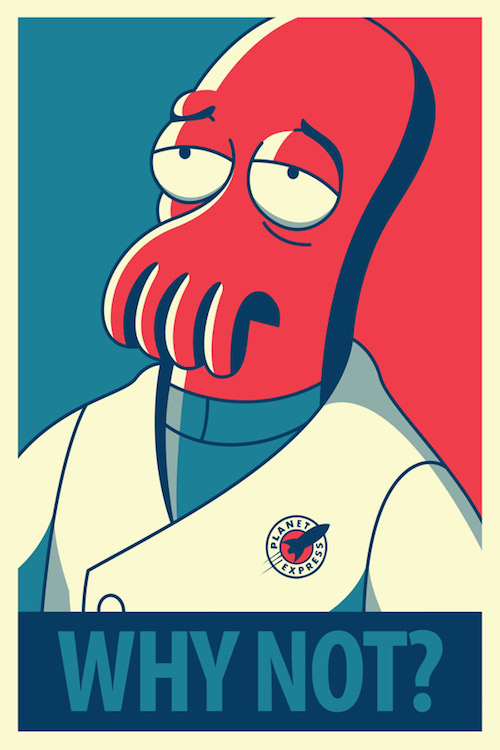
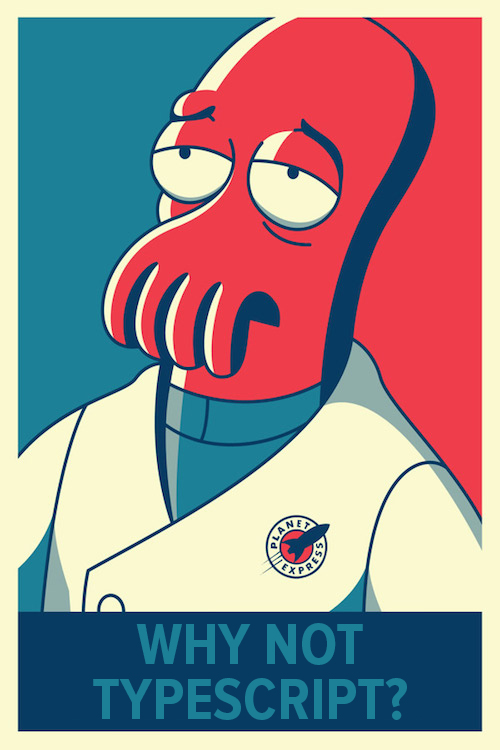
Update slide styles.  (#1)
* minor changes to theme

* style and graphic updates

* Additional tweaks, fix code stepping

Changed region(s): [[0.12, 0.828, 0.9, 0.9813]]

diff --git a/presentation/slides/intro/WhatIsTypescript.js b/presentation/slides/intro/WhatIsTypescript.js
@@ -14,19 +14,19 @@ export default class extends React.Component {
         <Heading size={4}>What is TypeScript?</Heading>
         <ul className="fa-ul">
           <Appear>
-            <li><i className="fa-li fa fa-check-square-o green"/><b>Superset</b> of Javascript which adds type support</li>
+            <li><i className="fa-li fa fa-check-square-o red"/><b>Superset</b> of Javascript which adds type support</li>
           </Appear>
           <Appear>
-            <li><i className="fa-li fa fa-check-square-o green"/>Developed by Anders Hejlsberg at Microsoft</li>
+            <li><i className="fa-li fa fa-check-square-o red"/>Developed by Anders Hejlsberg at Microsoft</li>
           </Appear>
           <Appear>
-            <li><i className="fa-li fa fa-check-square-o green"/>3rd most loved language in StackOverflow 2017 rankings</li>
+            <li><i className="fa-li fa fa-check-square-o red"/>3rd most loved language in StackOverflow 2017 rankings</li>
           </Appear>
           <Appear>
-            <li><i className="fa-li fa fa-check-square-o green"/>Big in Angular community, Angular 2 written in TS</li>
+            <li><i className="fa-li fa fa-check-square-o red"/>Big in Angular community, Angular 2 written in TS</li>
           </Appear>
           <Appear>
-            <li><i className="fa-li fa fa-check-square-o green"/>2.3</li>
+            <li><i className="fa-li fa fa-check-square-o red"/>2.3</li>
           </Appear>
         </ul>
       </div>

diff --git a/presentation/slides/intro/React.js b/presentation/slides/intro/React.js
@@ -13,11 +13,11 @@ export default class extends React.Component {
       <div>
         <Heading size={4}>Benefits in React</Heading>
         <ul className="fa-ul">
-          <Appear><li><i className="fa-li fa fa-check-square-o green"/>JSX autocompletion and validation</li></Appear>
-          <Appear><li><i className="fa-li fa fa-check-square-o green"/>DOM event typing</li></Appear>
-          <Appear><li><i className="fa-li fa fa-check-square-o green"/>Flux action call signature validation</li></Appear>
-          <Appear><li><i className="fa-li fa fa-check-square-o green"/>Redux store autocompletion</li></Appear>
-          <Appear><li><i className="fa-li fa fa-check-square-o green"/>Compile-time prop validation</li></Appear>
+          <Appear><li><i className="fa-li fa fa-check-square-o red"/>JSX autocompletion and validation</li></Appear>
+          <Appear><li><i className="fa-li fa fa-check-square-o red"/>DOM event typing</li></Appear>
+          <Appear><li><i className="fa-li fa fa-check-square-o red"/>Flux action call signature validation</li></Appear>
+          <Appear><li><i className="fa-li fa fa-check-square-o red"/>Redux store autocompletion</li></Appear>
+          <Appear><li><i className="fa-li fa fa-check-square-o red"/>Compile-time prop validation</li></Appear>
         </ul>
       </div>
     );

diff --git a/index.html b/index.html
@@ -8,6 +8,8 @@
   <link href="https://fonts.googleapis.com/css?family=Russo+One:400,700" rel="stylesheet"/>
   <link rel="stylesheet" type="text/css" href="https://cdn.jsdelivr.net/prism/1.3.0/themes/prism-tomorrow.css"/>
   <link rel="stylesheet" type="text/css" href="https://maxcdn.bootstrapcdn.com/font-awesome/4.7.0/css/font-awesome.min.css"/>
+  <script src="https://use.typekit.net/xhb8zqf.js"></script>
+  <script>try{Typekit.load({ async: true });}catch(e){}</script>
   <style>
     pre {
         padding: 15% 0 !important;
@@ -15,8 +17,8 @@
     .spectacle-content{
         min-width: 1200px !important;
     }
-    .green {
-      color: #58C99E;
+    .red {
+      color: #EE2E2A;
     }
     .centered-list li {
       text-align: center;
@@ -24,12 +26,17 @@
     li{
       text-align: left;
       padding-bottom: 15px;
+      color: #506774;
+      font-weight: lighter;
     }
     .courtesy{
       font-size: 12px;
       position: absolute;
       bottom: calc(-50vh + 100%);
       right: calc(-50vh + 30%);
+    }
+    hr{
+        margin-left:0;
     }
   </style>
 </head>

diff --git a/presentation/slides/components/ClassDefinition.js b/presentation/slides/components/ClassDefinition.js
@@ -20,11 +20,11 @@ export default class extends React.Component {
                    ranges={[
                        {loc: [0, 2]},
                        {loc: [3, 13], note: <span>"PropTypes"</span>},
-                       {loc: [5, 7], note: <span>Primatives</span>},
-                       {loc: [7, 8], note: <span>Arrays</span>},
-                       {loc: [8, 9], note: <span>Functions</span>},
-                       {loc: [9, 13], note: <span>Sub-objects</span>},
-                       {loc: [16, 20], note: <span style={{color: "#ff5c57"}}>Supplied parameters do not match any signature of call target</span>}
+                       {loc: [4, 6], note: <span>Primatives</span>},
+                       {loc: [6, 7], note: <span>Arrays</span>},
+                       {loc: [7, 8], note: <span>Functions</span>},
+                       {loc: [8, 12], note: <span>Sub-objects</span>},
+                       {loc: [14, 20], note: <span style={{color: "#ff5c57"}}>Supplied parameters do not match any signature of call target</span>}
                    ]}/>
     );
   }

diff --git a/presentation/slides/Title.js b/presentation/slides/Title.js
@@ -11,13 +11,19 @@ export default class extends React.Component {
   render() {
     return (
       <div>
-        <Typeface font="Russo One">
-          <Text textSize="72px">Static Typing for React?</Text>
-          <br/>
-          <br/>
-          <Text textSize="72px">Why Not Typescript?</Text>
-          <br/>
-          <br/>
+        <Typeface font="'proxima-nova'-serif">
+          <Heading size={6} textAlign="left" textTransform="uppercase">Static Typing for React?</Heading>
+          <Text size={5} textAlign='left' textTransform="uppercase" lineHeight='45px' fontWeight='100'>Why Not Typescript?</Text>
+        </Typeface>
+        <br/>
+        <hr width='200px' color="#EE2E2A"/>
+        <br/>
+        <br/>
+        <br/>
+        <br/>
+        <Typeface font="'proxima-nova'-serif" align='flex-end'>
+            <Text textSize="32px" textColor="secondary" textAlign="right">@erniewturner</Text>
+            <Text textSize="32px" textColor="secondary" textAlign="right">@ironcorelabs</Text>
         </Typeface>
       </div>
     );

diff --git a/presentation/slides/Close.js b/presentation/slides/Close.js
@@ -1,21 +1,22 @@
 import React from "react";
 
 import {
-  Heading
+  Heading,
+  Text
 } from "spectacle";
 
 export default class extends React.Component {
   render() {
     return (
       <div>
-        <Heading size={2} caps textColor="secondary">Thank You!</Heading>
+        <Heading size={4} textTransform="uppercase">Thank You</Heading>
         <br/>
         <br/>
         <br/>
-        <Heading size={5} lineHeight={1.5} textColor="secondary">Ernie Turner</Heading>
         <br/>
-        <Heading size={5} textColor="secondary"><i className="fa fa-twitter"/> erniewturner</Heading>
-        <Heading size={5} textColor="secondary"><i className="fa fa-github"/> ernieturner</Heading>
+        <Text textSize="45px" textColor="secondary" textAlign="right">Ernie Turner</Text>
+        <Text textSize="45px" textColor="secondary" textAlign="right"><i className="fa fa-twitter"/> erniewturner</Text>
+        <Text textSize="45px" textColor="secondary" textAlign="right"><i className="fa fa-github"/> ernieturner</Text>
       </div>
     );
   }

diff --git a/presentation/slides/code/generic-action.ts b/presentation/slides/code/generic-action.ts
@@ -1,42 +1,34 @@
-interface FluxAction<PayloadType>{
+interface FluxAction {
   type: string;
   error?: boolean;
-  payload: PayloadType | Error;
 }
 
-
-
-type ActionType = "GET_DATA_REQUEST" |
-                  "GET_DATA_SUCCESS" |
-                  "GET_DATA_FAILURE";
-interface FluxAction<PayloadType>{
-  type: ActionType;
-  error?: boolean;
-  payload: PayloadType | Error;
-}
-
-
-
-type MyAction = FluxAction<{
-  id: number;
-  data: {
-    list: string[];
+interface MyAction1 extends FluxAction {
+  type: "GET_DATA_SUCCESS";
+  payload: {
+    id: number;
+    data: {
+      list: string[];
+    };
   };
-}>;
+}
+
+interface MyAction2 extends FluxAction {
+  type: "GET_DATA_FAILURE";
+  payload: Error;
+  error: boolean;
+}
 
 
+type Actions = MyAction1 | MyAction2;
 
 
-function requestData(id: number): MyAction {
+function requestData(id: number): MyAction1 {
   return {
-    type: 'GET_DATA_REQUEST',
+    type: 'GET_DATA_SUCCESS',
     payload: {
       id,
       data: {list: ['one', 'two']}
     }
   };
 }
-
-
-
-

diff --git a/presentation/slides/reducers/ReducerTypeBenefits.js b/presentation/slides/reducers/ReducerTypeBenefits.js
@@ -14,13 +14,13 @@ export default class extends React.Component {
         <Heading size={4}>Benefits</Heading>
         <ul className="fa-ul">
           <Appear>
-            <li><i className="fa-li fa fa-check-square-o green"/>Guarantees about action payload</li>
+            <li><i className="fa-li fa fa-check-square-o red"/>Guarantees about action payload</li>
           </Appear>
           <Appear>
-            <li><i className="fa-li fa fa-check-square-o green"/>Autocompletion for store consumers</li>
+            <li><i className="fa-li fa fa-check-square-o red"/>Autocompletion for store consumers</li>
           </Appear>
           <Appear>
-            <li><i className="fa-li fa fa-check-square-o green"/>Creating store shape requires undestanding all scenarios</li>
+            <li><i className="fa-li fa fa-check-square-o red"/>Creating store shape requires undestanding all scenarios</li>
           </Appear>
         </ul>
       </div>

diff --git a/presentation/slides/intro/Disclaimer.js b/presentation/slides/intro/Disclaimer.js
@@ -14,10 +14,10 @@ export default class extends React.Component {
         <Heading size={4}>Disclaimer</Heading>
         <ul className="fa-ul">
           <Appear>
-            <li><i className="fa-li fa fa-check-square-o green"/>Not a TypeScript-Flow comparison</li>
+            <li><i className="fa-li fa fa-check-square-o red"/>Not a TypeScript-Flow comparison</li>
           </Appear>
           <Appear>
-            <li><i className="fa-li fa fa-check-square-o green"/>Static Typing for React? Yes, Please!</li>
+            <li><i className="fa-li fa fa-check-square-o red"/>Static Typing for React? Yes, Please!</li>
           </Appear>
         </ul>
       </div>

diff --git a/presentation/slides/definitions/index.js b/presentation/slides/definitions/index.js
@@ -3,6 +3,7 @@ import React from "react";
 // Import Spectacle Core tags
 import {
   Heading,
+  Appear
 } from "spectacle";
 
 export default class extends React.Component {
@@ -10,6 +11,14 @@ export default class extends React.Component {
     return (
       <div>
         <Heading size={4}>Library Type Definitions</Heading>
+        <ul className="fa-ul">
+          <Appear>
+            <li><i className="fa-li fa fa-check-square-o red"/>Self published</li>
+          </Appear>
+          <Appear>
+            <li><i className="fa-li fa fa-check-square-o red"/>Definitely Typed</li>
+          </Appear>
+        </ul>
       </div>
     );
   }

diff --git a/presentation/slides/actions/ActionTypes.js b/presentation/slides/actions/ActionTypes.js
@@ -19,10 +19,11 @@ export default class extends React.Component {
                    code={codeSample}
                    ranges={[
                        {loc: [0, 0], title: "Typing Action Creators"},
-                       {loc: [0, 5]},
-                       {loc: [8, 16]},
-                       {loc: [18, 25]},
-                       {loc: [28, 48]}
+                       {loc: [0, 4]},
+                       {loc: [5, 14]},
+                       {loc: [15, 20]},
+                       {loc: [22, 23]},
+                       {loc: [25, 34]}
                    ]}/>
     );
   }

diff --git a/presentation/slides/actions/ReduxActions.js b/presentation/slides/actions/ReduxActions.js
@@ -21,7 +21,7 @@ export default class extends React.Component {
                        {loc: [0, 0], title: "Binding Redux Action Creators"},
                        {loc: [0, 8]},
                        {loc: [10, 13], note: <span>👎 Requires duplication of function signature</span>},
-                       {loc: [14, 17], note: <span>👍 No changes needed when action creator changes</span>}
+                       {loc: [15, 18], note: <span>👍 No changes needed when action creator changes</span>}
                    ]}/>
     );
   }
